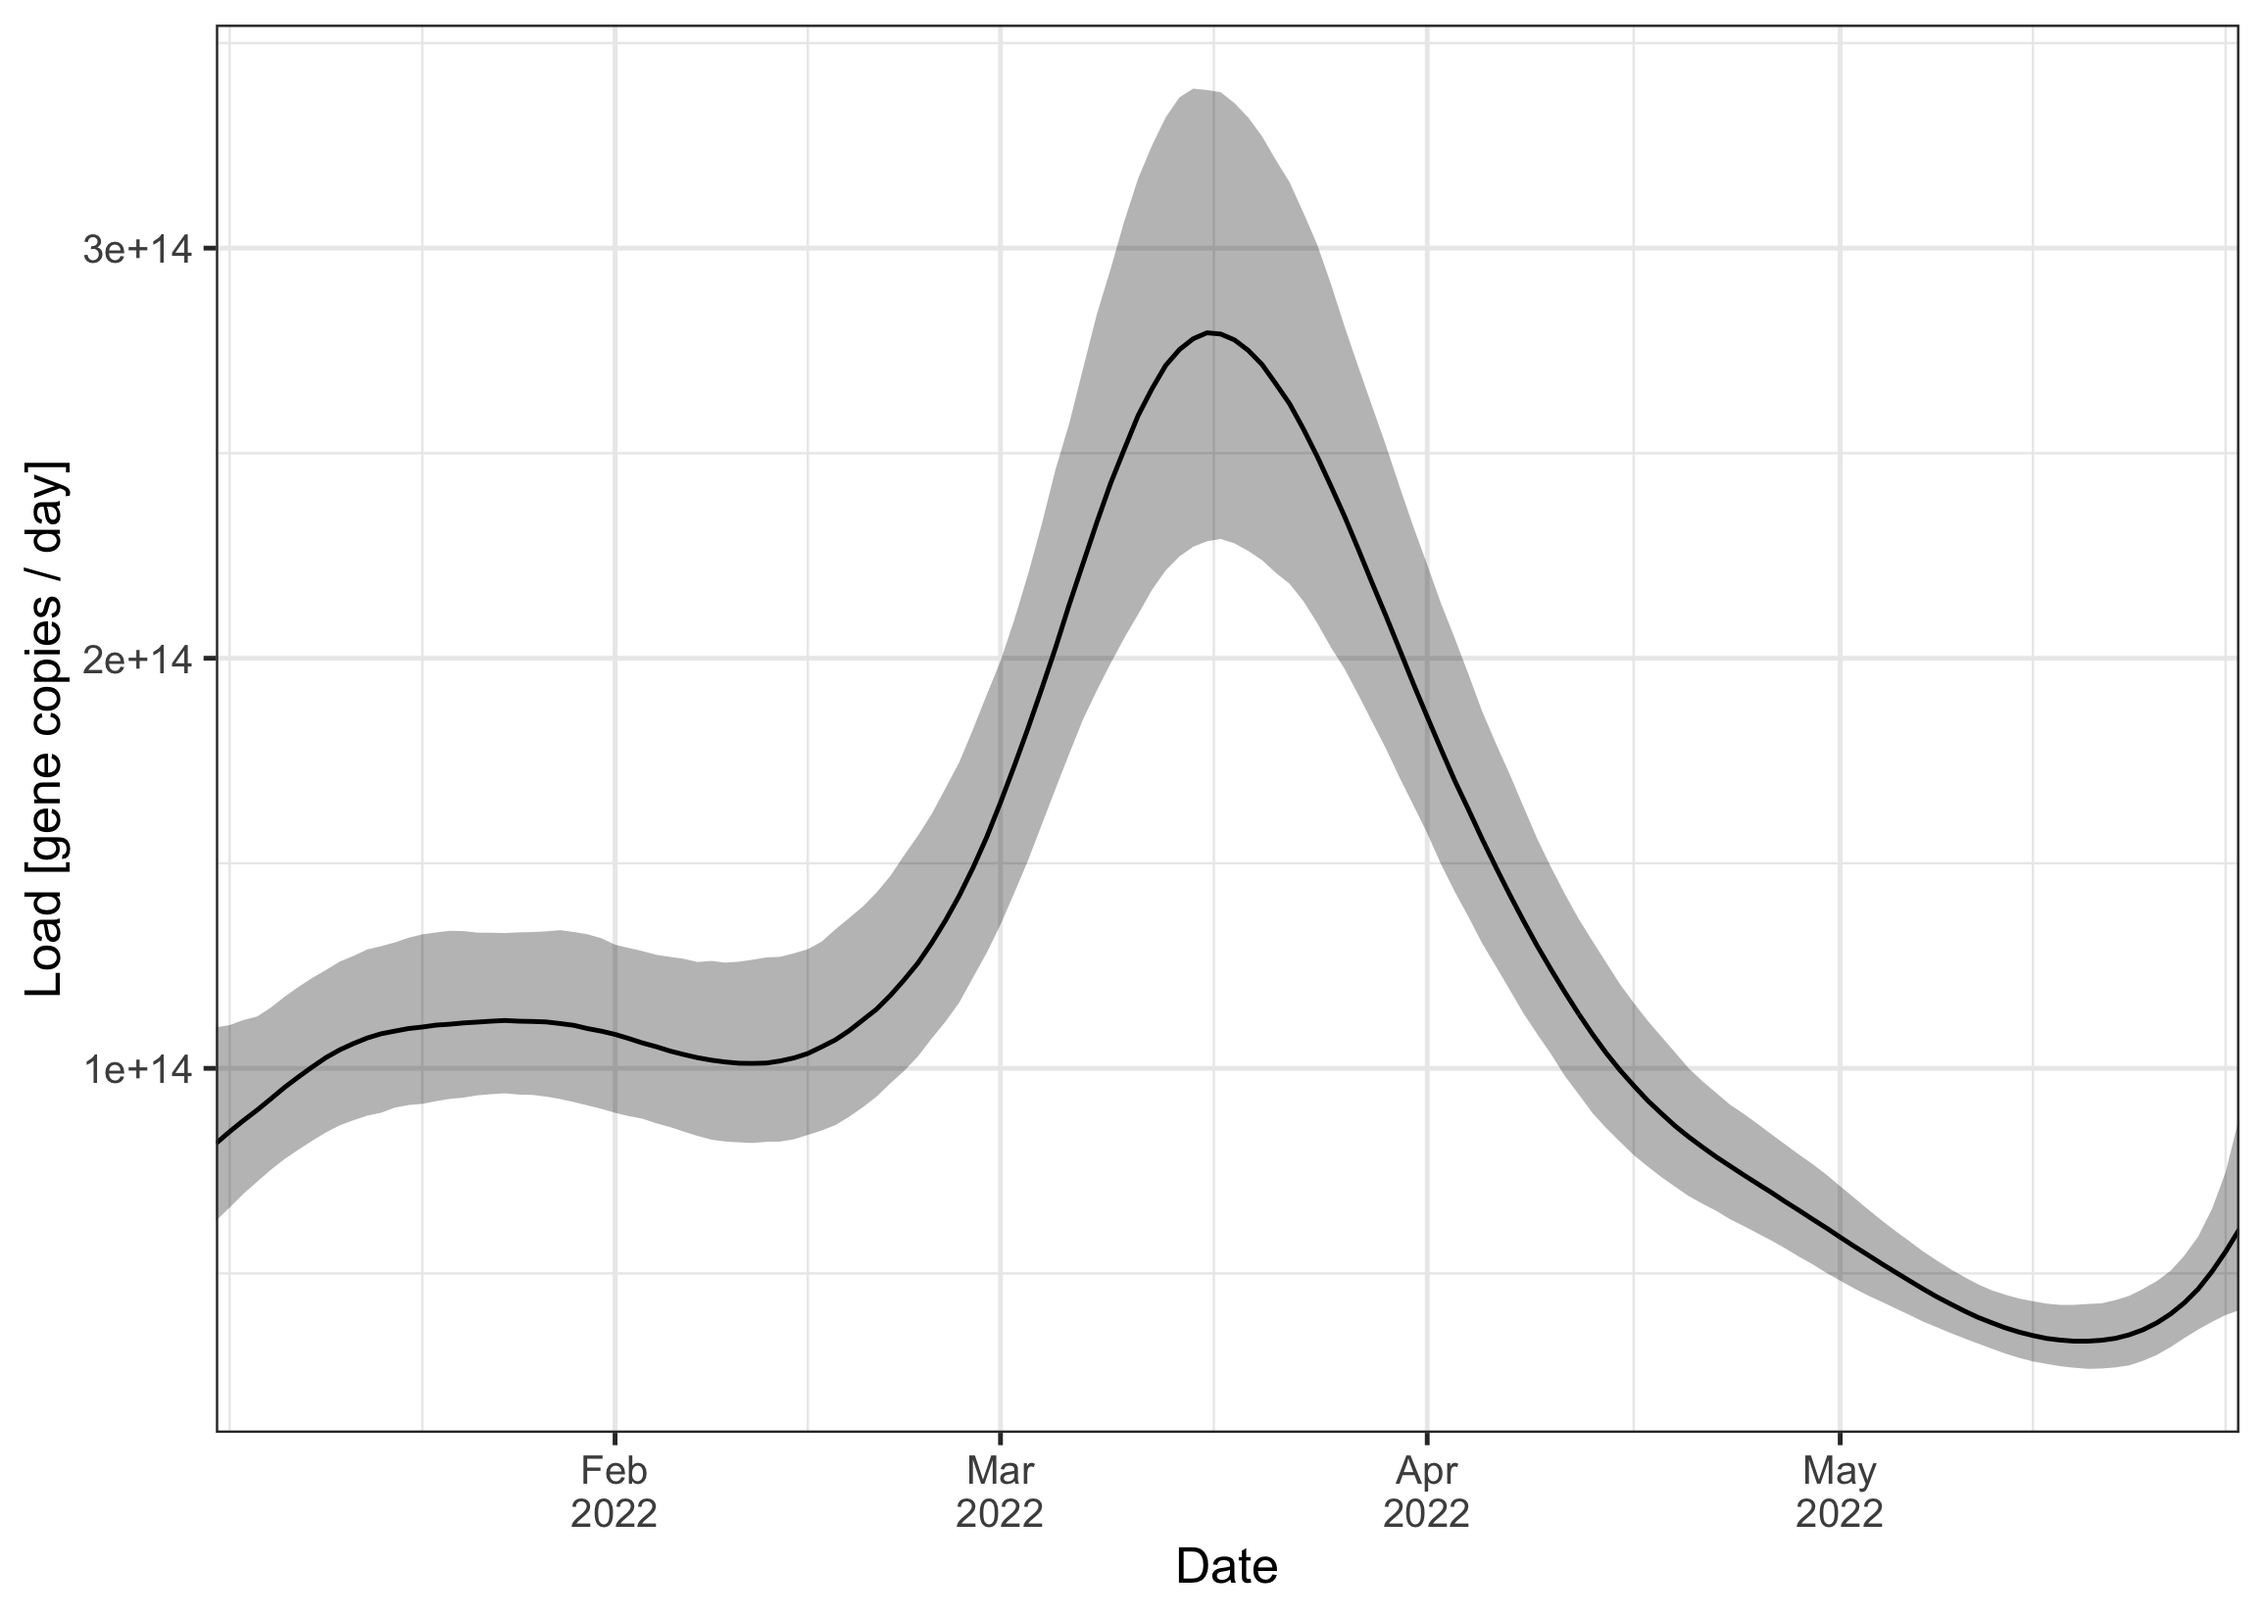
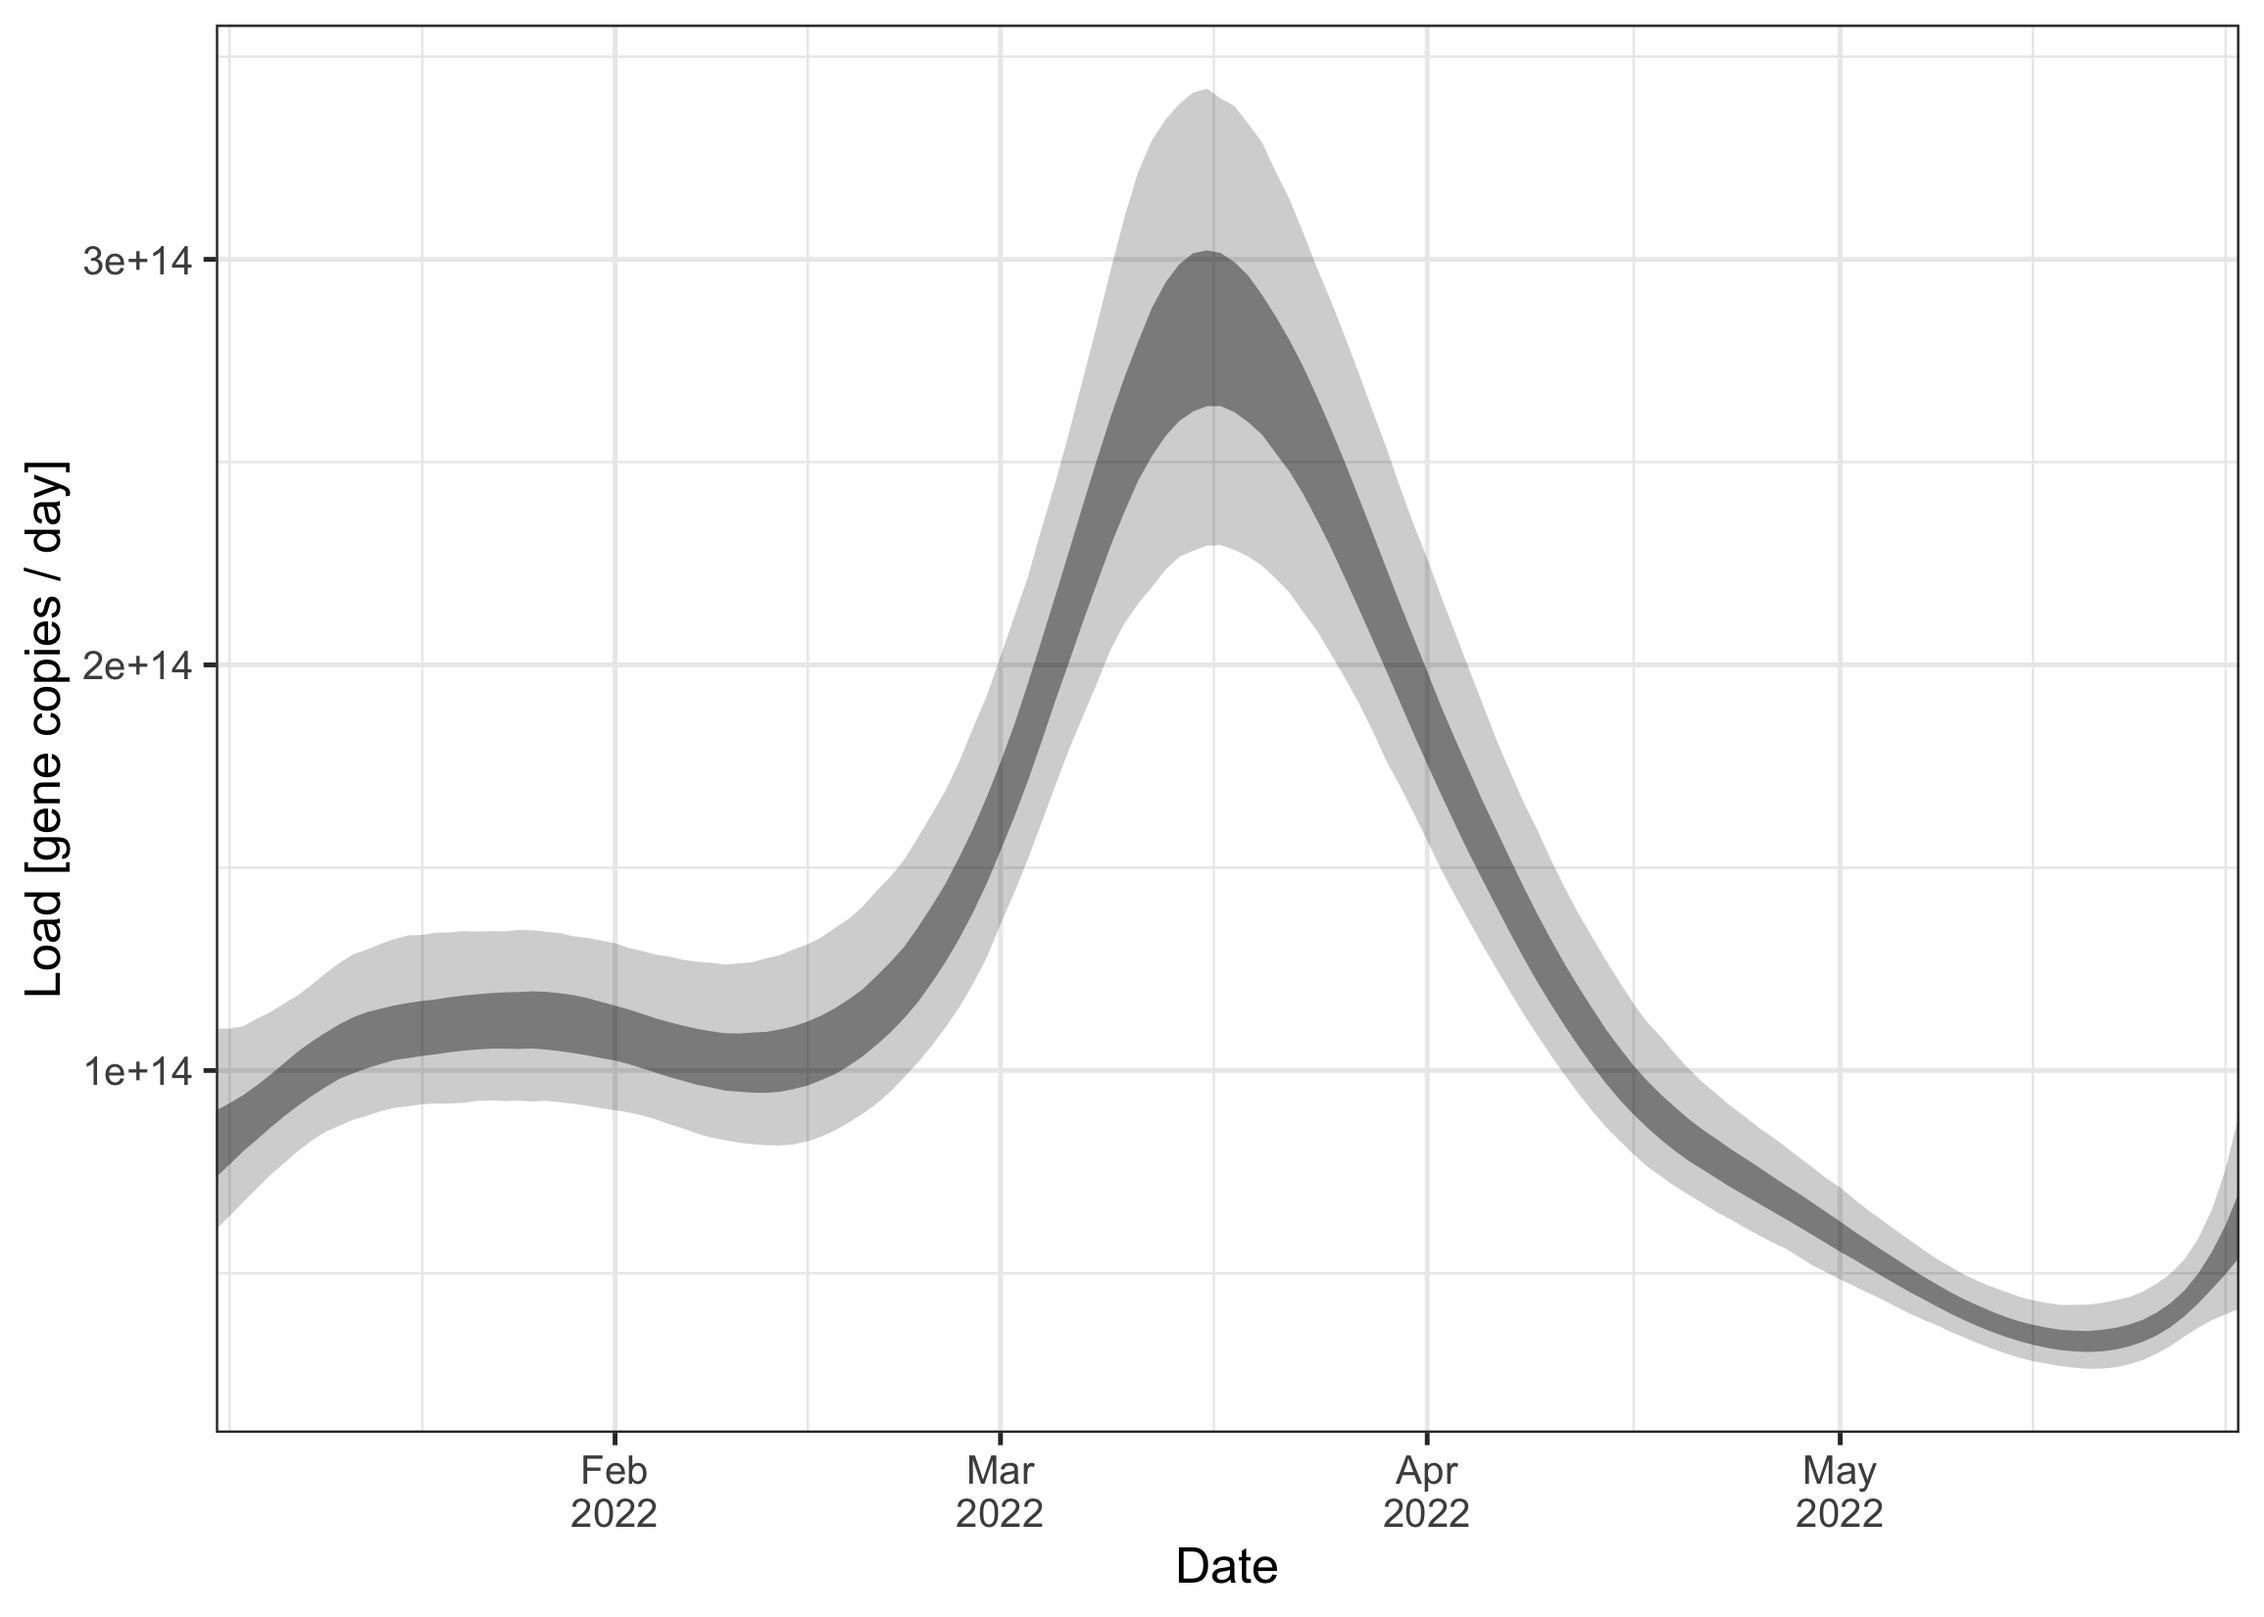
Update README

Changed region(s): [[0.0312, 0.0618, 0.9974, 0.8655], [0.0312, 0.1545, 0.0935, 0.1855], [0.0312, 0.6491, 0.0623, 0.68]]

diff --git a/README.md b/README.md
@@ -266,7 +266,7 @@ options(mc.cores = 4) # allow stan to use 4 cores, i.e. one for each chain
 ww_result <- EpiSewer(
   data = ww_data,
   assumptions = ww_assumptions,
-  fit_opts = set_fit_opts(sampler = sampler_stan_mcmc(iter_warmup = 500, iter_sampling = 1000, chains = 4, show_messages = T))
+  fit_opts = set_fit_opts(sampler = sampler_stan_mcmc(iter_warmup = 500, iter_sampling = 1000, chains = 4))
 )
 ```
 
@@ -380,8 +380,8 @@ parameters from the model.
 ``` r
 names(ww_result$summary)
 #> [1] "R"                      "R_samples"              "expected_infections"   
-#> [4] "infections"             "infections_samples"     "expected_onsets"       
-#> [7] "expected_load"          "expected_concentration" "concentration"
+#> [4] "infections"             "infections_samples"     "expected_load"         
+#> [7] "expected_concentration" "concentration"
 ```
 
 For example, we can access the exact estimates for the reproduction
@@ -389,18 +389,30 @@ number.
 
 ``` r
 ww_result$summary$R
-#>            date     mean   median     lower    upper seeding
-#>   1: 2021-12-06 1.074035 1.073050 0.7035129 1.442790    TRUE
-#>   2: 2021-12-07 1.073385 1.072620 0.7169806 1.433125    TRUE
-#>   3: 2021-12-08 1.073732 1.071740 0.7304690 1.430257    TRUE
-#>   4: 2021-12-09 1.074019 1.073505 0.7473058 1.410519    TRUE
-#>   5: 2021-12-10 1.074774 1.073380 0.7559406 1.397295    TRUE
-#>  ---                                                        
-#> 172: 2022-05-26 1.342199 1.325245 1.0462802 1.733282   FALSE
-#> 173: 2022-05-27 1.348734 1.328010 1.0313458 1.775872   FALSE
-#> 174: 2022-05-28 1.352267 1.330245 1.0228650 1.786648   FALSE
-#> 175: 2022-05-29 1.352050 1.329705 1.0121513 1.812245   FALSE
-#> 176: 2022-05-30 1.352279 1.328110 1.0091880 1.838021   FALSE
+#>            date     mean   median lower_0.95 lower_0.5 upper_0.95 upper_0.5
+#>   1: 2021-12-06 1.045315 1.048455  0.6545776 0.9272795   1.411848  1.165302
+#>   2: 2021-12-07 1.045749 1.048955  0.6712394 0.9291202   1.411490  1.164115
+#>   3: 2021-12-08 1.046740 1.048185  0.6976070 0.9357220   1.388787  1.160318
+#>   4: 2021-12-09 1.047307 1.049825  0.7063578 0.9420907   1.380422  1.156362
+#>   5: 2021-12-10 1.047131 1.051345  0.7073939 0.9462520   1.369877  1.150200
+#>  ---                                                                       
+#> 172: 2022-05-26 1.349490 1.333315  1.0293482 1.2221525   1.760449  1.463567
+#> 173: 2022-05-27 1.357525 1.337010  1.0278413 1.2225450   1.794444  1.476707
+#> 174: 2022-05-28 1.360521 1.340215  1.0174218 1.2183100   1.823932  1.481882
+#> 175: 2022-05-29 1.361005 1.336515  1.0081528 1.2142350   1.834631  1.487255
+#> 176: 2022-05-30 1.361629 1.338500  1.0040498 1.2054100   1.852623  1.492240
+#>      seeding
+#>   1:    TRUE
+#>   2:    TRUE
+#>   3:    TRUE
+#>   4:    TRUE
+#>   5:    TRUE
+#>  ---        
+#> 172:   FALSE
+#> 173:   FALSE
+#> 174:   FALSE
+#> 175:   FALSE
+#> 176:   FALSE
 ```
 
 Finally, the `fitted` attribute provides access to all details of the
@@ -444,5 +456,5 @@ ww_result$fitted$diagnostic_summary()
 #> [1] 0 0 0 0
 #> 
 #> $ebfmi
-#> [1] 0.8514579 0.7615325 0.8731199 0.8085602
+#> [1] 0.8823145 0.8001372 0.8175664 0.8383984
 ```
